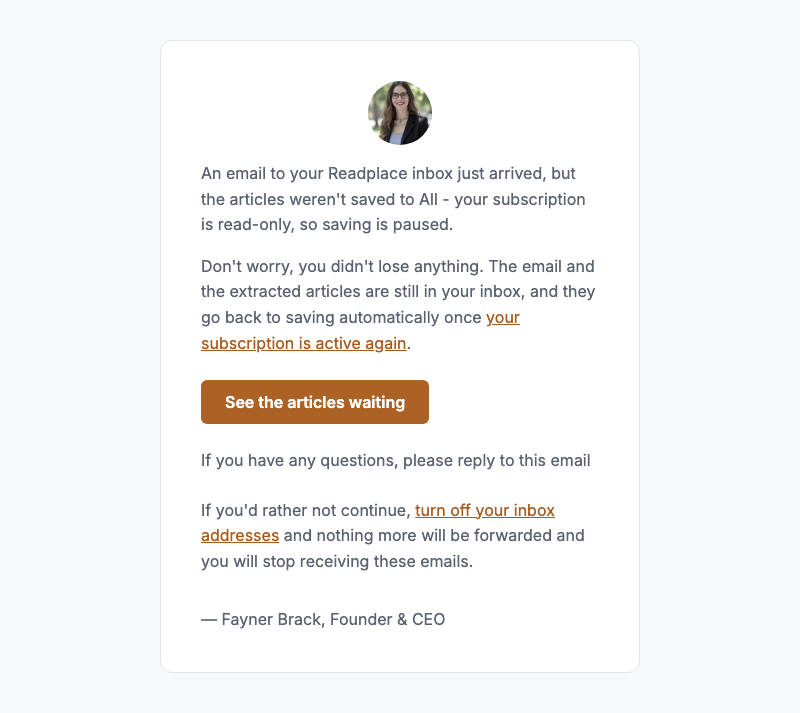
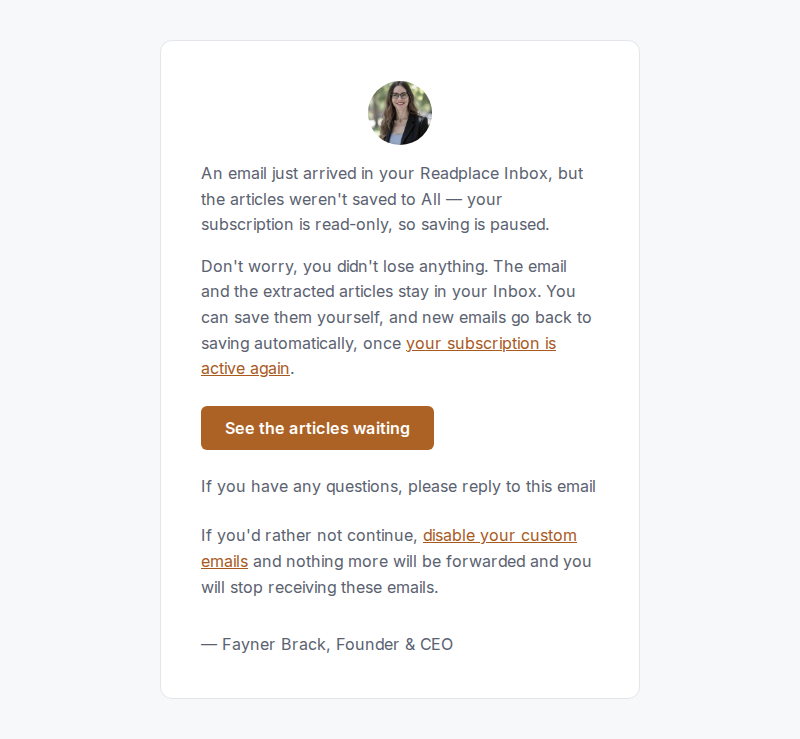
fix(hutch): name custom emails and Inbox in onboarding and the account emails
Three customer emails and the onboarding checklist tell a reader where
their newsletters go. Two of the emails and the checklist called the
receiving address an inbox or an inbox address, the name the app keeps
for the Inbox page, and two of the emails said things that are not
true.

The email sent when a read-only account receives mail promised that the
held articles "go back to saving automatically" once the subscription is
active again. Nothing resubmits them: they stay in the Inbox for the
reader to save by hand, and only new mail saves automatically. The email
now says that. Its opening no longer calls the receiving address "your
Readplace inbox", because the address can belong to a Gmail connection
instead of being one the reader created. It names the address and says
the email arrived in the Readplace Inbox.

The Gmail newsletter notice said Readplace "saves every eligible
article". That stopped being the default when a newly chosen newsletter
began saving the issue itself. The notice now says the reader chooses
the issue, the articles it links to, or both, and its footer says the
reader has not chosen readlists where it said the newsletter was not
mapped.

The first-arrival email and the onboarding email step name the custom
email and the Inbox page. The onboarding step also leads with
subscribing to a newsletter, the main use of the address, where it only
mentioned forwarding one. The sentence wraps onto one more line, so the
[…]

Changed region(s): [[0.25, 0.0926, 0.75, 0.6788], [0.25, 0.7097, 0.75, 0.8022], [0.25, 0.864, 0.5625, 0.8948]]

diff --git a/projects/hutch/src/runtime/web/auth/gmail-newsletter-notice-email.test.ts b/projects/hutch/src/runtime/web/auth/gmail-newsletter-notice-email.test.ts
@@ -26,20 +26,20 @@ describe("GmailNewsletterNoticeEmail", () => {
 		expect(email.subject).toBe("Choose readlists for Example Letter");
 		expect(email.to("text/plain")).toBe([
 			"Readplace recognizes Example Letter in your Gmail: letter@example.com. It is ready to connect to your readlists.",
-			`Choose readlists and Save to send its future emails to Readplace, which saves every eligible article to All and to any other readlists you choose. ${IMPORT_SENTENCE}`,
+			`Choose readlists and Save to send its future emails to Readplace. What you choose to save — the issue itself, the articles it links to, or both — goes to All and any readlists you pick. ${IMPORT_SENTENCE}`,
 			"Choose readlists: https://readplace.com/newsletters/gmail?sender=letter%40example.com",
 			REPLY,
 			SIGNOFF,
-			"You are receiving this email because you haven't mapped this newsletter to a readlist. This is a one-time notification for Example Letter.",
+			"You are receiving this email because you haven't chosen readlists for this newsletter. This is a one-time notification for Example Letter.",
 		].join("\n\n"));
-		expect(footerOf(email.to("text/html"))).toBe("You are receiving this email because you haven't mapped this newsletter to a readlist. This is a one-time notification for Example Letter.");
+		expect(footerOf(email.to("text/html"))).toBe("You are receiving this email because you haven't chosen readlists for this newsletter. This is a one-time notification for Example Letter.");
 	});
 
 	it("names an unnamed newsletter by its address", () => {
 		const email = notice([newsletter({ newsletterName: undefined })]);
 
 		expect(email.subject).toBe("Choose readlists for letter@example.com");
-		expect(footerOf(email.to("text/html"))).toBe("You are receiving this email because you haven't mapped this newsletter to a readlist. This is a one-time notification for letter@example.com.");
+		expect(footerOf(email.to("text/html"))).toBe("You are receiving this email because you haven't chosen readlists for this newsletter. This is a one-time notification for letter@example.com.");
 	});
 
 	it("lists several newsletters, each linked to its own readlist choice, points the button at the Gmail page, and says nothing about waiting newsletters when none wait", () => {
@@ -53,11 +53,11 @@ describe("GmailNewsletterNoticeEmail", () => {
 			"Readplace recognizes 2 newsletters in your Gmail that are ready to connect to your readlists:",
 			"Example Letter (letter@example.com): https://readplace.com/newsletters/gmail?sender=letter%40example.com",
 			"news@wildcard.example: https://readplace.com/newsletters/gmail?sender=news%40wildcard.example",
-			`Choose readlists for a newsletter and Save to send its future emails to Readplace, which saves every eligible article to All and to any other readlists you choose. ${IMPORT_SENTENCE}`,
+			`Choose readlists for a newsletter and Save to send its future emails to Readplace. What you choose to save — the issue itself, the articles it links to, or both — goes to All and any readlists you pick. ${IMPORT_SENTENCE}`,
 			`Choose readlists: ${GMAIL_URL}`,
 			REPLY,
 			SIGNOFF,
-			"You are receiving this email because you haven't mapped these newsletters to a readlist. This is a one-time notification for each of them.",
+			"You are receiving this email because you haven't chosen readlists for these newsletters. This is a one-time notification for each of them.",
 		].join("\n\n"));
 		const anchors = [...new JSDOM(email.to("text/html")).window.document.querySelectorAll("a")].map((anchor) => [anchor.textContent, anchor.getAttribute("href")]);
 		expect(anchors).toEqual([
@@ -66,7 +66,7 @@ describe("GmailNewsletterNoticeEmail", () => {
 			["news@wildcard.example", "https://readplace.com/newsletters/gmail?sender=news%40wildcard.example"],
 			["Choose readlists", GMAIL_URL],
 		]);
-		expect(new JSDOM(email.to("text/html")).window.document.querySelector("a")?.closest("table")?.nextElementSibling?.textContent).toBe(`Choose readlists for a newsletter and Save to send its future emails to Readplace, which saves every eligible article to All and to any other readlists you choose. ${IMPORT_SENTENCE}`);
+		expect(new JSDOM(email.to("text/html")).window.document.querySelector("a")?.closest("table")?.nextElementSibling?.textContent).toBe(`Choose readlists for a newsletter and Save to send its future emails to Readplace. What you choose to save — the issue itself, the articles it links to, or both — goes to All and any readlists you pick. ${IMPORT_SENTENCE}`);
 	});
 
 	it.each([
@@ -83,17 +83,17 @@ describe("GmailNewsletterNoticeEmail", () => {
 			"Example Letter (letter@example.com): https://readplace.com/newsletters/gmail?sender=letter%40example.com",
 			"news@wildcard.example: https://readplace.com/newsletters/gmail?sender=news%40wildcard.example",
 			sentence,
-			`Choose readlists for a newsletter and Save to send its future emails to Readplace, which saves every eligible article to All and to any other readlists you choose. ${IMPORT_SENTENCE}`,
+			`Choose readlists for a newsletter and Save to send its future emails to Readplace. What you choose to save — the issue itself, the articles it links to, or both — goes to All and any readlists you pick. ${IMPORT_SENTENCE}`,
 			`Choose readlists: ${GMAIL_URL}`,
 			REPLY,
 			SIGNOFF,
-			"You are receiving this email because you haven't mapped these newsletters to a readlist. This is a one-time notification for each of them.",
+			"You are receiving this email because you haven't chosen readlists for these newsletters. This is a one-time notification for each of them.",
 		].join("\n\n"));
 		const html = email.to("text/html");
 		const listTable = new JSDOM(html).window.document.querySelector("a")?.closest("table");
 		expect(listTable?.nextElementSibling?.tagName).toBe("P");
 		expect(listTable?.nextElementSibling?.textContent).toBe(sentence);
-		expect(footerOf(html)).toBe("You are receiving this email because you haven't mapped these newsletters to a readlist. This is a one-time notification for each of them.");
+		expect(footerOf(html)).toBe("You are receiving this email because you haven't chosen readlists for these newsletters. This is a one-time notification for each of them.");
 	});
 
 	it("refuses a single-newsletter notice that says more are waiting", () => {

diff --git a/projects/hutch/docs/customer-emails/html/automation-saves-held--default.html b/projects/hutch/docs/customer-emails/html/automation-saves-held--default.html
@@ -3,7 +3,7 @@
   <head>
     <meta charset="utf-8">
     <meta name="viewport" content="width=device-width, initial-scale=1.0">
-    <title>Links sent to your Readplace inbox are waiting</title>
+    <title>Links sent to your Readplace Inbox are waiting</title>
     <style>
       @media (min-width: 768px) {
         .email-card__body {
@@ -27,8 +27,8 @@
                   </tr>
                   <tr>
                     <td>
-                      <p style="margin:0 0 16px;font-size:16px;line-height:1.6;color:#5A6170;">An email to your Readplace inbox at <span style="display:inline-block;overflow-wrap:anywhere;word-break:break-word;font-weight:700;">inbox-k7m2q9@read.place</span> just arrived, but the articles weren&#x27;t saved to All - your subscription is read-only, so saving is paused.</p>
-                      <p style="margin:0 0 24px;font-size:16px;line-height:1.6;color:#5A6170;">Don't worry, you didn't lose anything. The email and the extracted articles are still in your inbox, and they go back to saving automatically once <a href="https://readplace.com/account?utm_source=automation-saves-held&utm_medium=email&utm_campaign=lapsed-inbox-save&utm_content=reactivate" style="color:#A85A1E;">your subscription is active again</a>.</p>
+                      <p style="margin:0 0 16px;font-size:16px;line-height:1.6;color:#5A6170;">An email to <span style="display:inline-block;overflow-wrap:anywhere;word-break:break-word;font-weight:700;">inbox-k7m2q9@read.place</span> just arrived in your Readplace Inbox, but the articles weren&#x27;t saved to All — your subscription is read-only, so saving is paused.</p>
+                      <p style="margin:0 0 24px;font-size:16px;line-height:1.6;color:#5A6170;">Don't worry, you didn't lose anything. The email and the extracted articles stay in your Inbox. You can save them yourself, and new emails go back to saving automatically, once <a href="https://readplace.com/account?utm_source=automation-saves-held&utm_medium=email&utm_campaign=lapsed-inbox-save&utm_content=reactivate" style="color:#A85A1E;">your subscription is active again</a>.</p>
                       <table role="presentation" cellpadding="0" cellspacing="0">
                         <tr>
                           <td style="border-radius:6px;background-color:#AD6225;">
@@ -37,7 +37,7 @@
                         </tr>
                       </table>
                       <p style="margin:24px 0 0;font-size:16px;line-height:1.6;color:#5A6170;">If you have any questions, please reply to this email</p>
-                      <p style="margin:24px 0 0;font-size:16px;line-height:1.6;color:#5A6170;">If you'd rather not continue, <a href="https://readplace.com/newsletters/custom-emails?utm_source&#x3D;automation-saves-held&amp;utm_medium&#x3D;email&amp;utm_campaign&#x3D;lapsed-inbox-save&amp;utm_content&#x3D;manage-addresses" style="color:#A85A1E;">turn off your inbox addresses</a> and nothing more will be forwarded and you will stop receiving these emails.</p>
+                      <p style="margin:24px 0 0;font-size:16px;line-height:1.6;color:#5A6170;">If you'd rather not continue, <a href="https://readplace.com/newsletters/custom-emails?utm_source&#x3D;automation-saves-held&amp;utm_medium&#x3D;email&amp;utm_campaign&#x3D;lapsed-inbox-save&amp;utm_content&#x3D;manage-addresses" style="color:#A85A1E;">disable your custom emails</a> and nothing more will be forwarded and you will stop receiving these emails.</p>
                       <p style="margin:32px 0 0;font-size:16px;line-height:1.6;color:#5A6170;">— Fayner Brack, Founder & CEO</p>
                     </td>
                   </tr>

diff --git a/projects/hutch/docs/customer-emails/html/automation-saves-held--no-inbox-address.html b/projects/hutch/docs/customer-emails/html/automation-saves-held--no-inbox-address.html
@@ -3,7 +3,7 @@
   <head>
     <meta charset="utf-8">
     <meta name="viewport" content="width=device-width, initial-scale=1.0">
-    <title>Links sent to your Readplace inbox are waiting</title>
+    <title>Links sent to your Readplace Inbox are waiting</title>
     <style>
       @media (min-width: 768px) {
         .email-card__body {
@@ -27,8 +27,8 @@
                   </tr>
                   <tr>
                     <td>
-                      <p style="margin:0 0 16px;font-size:16px;line-height:1.6;color:#5A6170;">An email to your Readplace inbox<span style="display:inline-block;overflow-wrap:anywhere;word-break:break-word;font-weight:700;"></span> just arrived, but the articles weren&#x27;t saved to All - your subscription is read-only, so saving is paused.</p>
-                      <p style="margin:0 0 24px;font-size:16px;line-height:1.6;color:#5A6170;">Don't worry, you didn't lose anything. The email and the extracted articles are still in your inbox, and they go back to saving automatically once <a href="https://readplace.com/account?utm_source=automation-saves-held&utm_medium=email&utm_campaign=lapsed-inbox-save&utm_content=reactivate" style="color:#A85A1E;">your subscription is active again</a>.</p>
+                      <p style="margin:0 0 16px;font-size:16px;line-height:1.6;color:#5A6170;">An email<span style="display:inline-block;overflow-wrap:anywhere;word-break:break-word;font-weight:700;"></span> just arrived in your Readplace Inbox, but the articles weren&#x27;t saved to All — your subscription is read-only, so saving is paused.</p>
+                      <p style="margin:0 0 24px;font-size:16px;line-height:1.6;color:#5A6170;">Don't worry, you didn't lose anything. The email and the extracted articles stay in your Inbox. You can save them yourself, and new emails go back to saving automatically, once <a href="https://readplace.com/account?utm_source=automation-saves-held&utm_medium=email&utm_campaign=lapsed-inbox-save&utm_content=reactivate" style="color:#A85A1E;">your subscription is active again</a>.</p>
                       <table role="presentation" cellpadding="0" cellspacing="0">
                         <tr>
                           <td style="border-radius:6px;background-color:#AD6225;">
@@ -37,7 +37,7 @@
                         </tr>
                       </table>
                       <p style="margin:24px 0 0;font-size:16px;line-height:1.6;color:#5A6170;">If you have any questions, please reply to this email</p>
-                      <p style="margin:24px 0 0;font-size:16px;line-height:1.6;color:#5A6170;">If you'd rather not continue, <a href="https://readplace.com/newsletters/custom-emails?utm_source&#x3D;automation-saves-held&amp;utm_medium&#x3D;email&amp;utm_campaign&#x3D;lapsed-inbox-save&amp;utm_content&#x3D;manage-addresses" style="color:#A85A1E;">turn off your inbox addresses</a> and nothing more will be forwarded and you will stop receiving these emails.</p>
+                      <p style="margin:24px 0 0;font-size:16px;line-height:1.6;color:#5A6170;">If you'd rather not continue, <a href="https://readplace.com/newsletters/custom-emails?utm_source&#x3D;automation-saves-held&amp;utm_medium&#x3D;email&amp;utm_campaign&#x3D;lapsed-inbox-save&amp;utm_content&#x3D;manage-addresses" style="color:#A85A1E;">disable your custom emails</a> and nothing more will be forwarded and you will stop receiving these emails.</p>
                       <p style="margin:32px 0 0;font-size:16px;line-height:1.6;color:#5A6170;">— Fayner Brack, Founder & CEO</p>
                     </td>
                   </tr>

diff --git a/projects/hutch/docs/customer-emails/html/inbox-first-arrival--custom-readlist-alias.html b/projects/hutch/docs/customer-emails/html/inbox-first-arrival--custom-readlist-alias.html
@@ -3,7 +3,7 @@
   <head>
     <meta charset="utf-8">
     <meta name="viewport" content="width=device-width, initial-scale=1.0">
-    <title>Your first email landed in your Readplace inbox</title>
+    <title>Your first email landed in your Readplace Inbox</title>
     <style>
       @media (min-width: 768px) {
         .email-card__body {
@@ -27,12 +27,12 @@
                   </tr>
                   <tr>
                     <td>
-                      <p style="margin:0 0 16px;font-size:16px;line-height:1.6;color:#5A6170;">The first email to your Readplace inbox at <span style="display:inline-block;overflow-wrap:anywhere;word-break:break-word;font-weight:700;">longreads-p4n8z2@read.place</span> just came through.</p>
-                      <p style="margin:0 0 24px;font-size:16px;line-height:1.6;color:#5A6170;">From here on, every email sent to that address shows up in your inbox, and Readplace pulls the article links out of it and adds them to All, your main readlist, so you can read them later.</p>
+                      <p style="margin:0 0 16px;font-size:16px;line-height:1.6;color:#5A6170;">The first email to your custom email <span style="display:inline-block;overflow-wrap:anywhere;word-break:break-word;font-weight:700;">longreads-p4n8z2@read.place</span> just came through.</p>
+                      <p style="margin:0 0 24px;font-size:16px;line-height:1.6;color:#5A6170;">From here on, every email sent to that custom email shows up in your Inbox, and Readplace pulls the article links out of it and adds them to All, your main readlist, so you can read them later.</p>
                       <table role="presentation" cellpadding="0" cellspacing="0">
                         <tr>
                           <td style="border-radius:6px;background-color:#AD6225;">
-                            <a href="https://readplace.com/inbox?highlight&#x3D;2026-10-05T07%3A42%3A19.204Z%23%3C20261005074211.3.8f2c4a91d7e6b035%40mg-d1.substack.com%3E&amp;utm_source&#x3D;first-inbox-email&amp;utm_medium&#x3D;email&amp;utm_campaign&#x3D;inbox-first-arrival&amp;utm_content&#x3D;open-inbox" style="display:inline-block;padding:12px 24px;font-size:16px;font-weight:600;line-height:20px;color:#FFFFFF;text-decoration:none;border-radius:6px;">See it in your inbox</a>
+                            <a href="https://readplace.com/inbox?highlight&#x3D;2026-10-05T07%3A42%3A19.204Z%23%3C20261005074211.3.8f2c4a91d7e6b035%40mg-d1.substack.com%3E&amp;utm_source&#x3D;first-inbox-email&amp;utm_medium&#x3D;email&amp;utm_campaign&#x3D;inbox-first-arrival&amp;utm_content&#x3D;open-inbox" style="display:inline-block;padding:12px 24px;font-size:16px;font-weight:600;line-height:20px;color:#FFFFFF;text-decoration:none;border-radius:6px;">See it in your Inbox</a>
                           </td>
                         </tr>
                       </table>

diff --git a/projects/hutch/docs/customer-emails/html/inbox-first-arrival--default.html b/projects/hutch/docs/customer-emails/html/inbox-first-arrival--default.html
@@ -3,7 +3,7 @@
   <head>
     <meta charset="utf-8">
     <meta name="viewport" content="width=device-width, initial-scale=1.0">
-    <title>Your first email landed in your Readplace inbox</title>
+    <title>Your first email landed in your Readplace Inbox</title>
     <style>
       @media (min-width: 768px) {
         .email-card__body {
@@ -27,12 +27,12 @@
                   </tr>
                   <tr>
                     <td>
-                      <p style="margin:0 0 16px;font-size:16px;line-height:1.6;color:#5A6170;">The first email to your Readplace inbox at <span style="display:inline-block;overflow-wrap:anywhere;word-break:break-word;font-weight:700;">inbox-k7m2q9@read.place</span> just came through.</p>
-                      <p style="margin:0 0 24px;font-size:16px;line-height:1.6;color:#5A6170;">From here on, every email sent to that address shows up in your inbox, and Readplace pulls the article links out of it and adds them to All, your main readlist, so you can read them later.</p>
+                      <p style="margin:0 0 16px;font-size:16px;line-height:1.6;color:#5A6170;">The first email to your custom email <span style="display:inline-block;overflow-wrap:anywhere;word-break:break-word;font-weight:700;">inbox-k7m2q9@read.place</span> just came through.</p>
+                      <p style="margin:0 0 24px;font-size:16px;line-height:1.6;color:#5A6170;">From here on, every email sent to that custom email shows up in your Inbox, and Readplace pulls the article links out of it and adds them to All, your main readlist, so you can read them later.</p>
                       <table role="presentation" cellpadding="0" cellspacing="0">
                         <tr>
                           <td style="border-radius:6px;background-color:#AD6225;">
-                            <a href="https://readplace.com/inbox?highlight&#x3D;2026-10-05T07%3A42%3A18.613Z%23%3C20261005074211.3.8f2c4a91d7e6b035%40mg-d1.substack.com%3E&amp;utm_source&#x3D;first-inbox-email&amp;utm_medium&#x3D;email&amp;utm_campaign&#x3D;inbox-first-arrival&amp;utm_content&#x3D;open-inbox" style="display:inline-block;padding:12px 24px;font-size:16px;font-weight:600;line-height:20px;color:#FFFFFF;text-decoration:none;border-radius:6px;">See it in your inbox</a>
+                            <a href="https://readplace.com/inbox?highlight&#x3D;2026-10-05T07%3A42%3A18.613Z%23%3C20261005074211.3.8f2c4a91d7e6b035%40mg-d1.substack.com%3E&amp;utm_source&#x3D;first-inbox-email&amp;utm_medium&#x3D;email&amp;utm_campaign&#x3D;inbox-first-arrival&amp;utm_content&#x3D;open-inbox" style="display:inline-block;padding:12px 24px;font-size:16px;font-weight:600;line-height:20px;color:#FFFFFF;text-decoration:none;border-radius:6px;">See it in your Inbox</a>
                           </td>
                         </tr>
                       </table>

diff --git a/projects/hutch/src/runtime/web/auth/automation-saves-held-email.test.ts b/projects/hutch/src/runtime/web/auth/automation-saves-held-email.test.ts
@@ -1,0 +1,53 @@
+import { JSDOM } from "jsdom";
+import { AutomationSavesHeldEmail } from "./automation-saves-held-email";
+
+const INBOX_URL = "https://readplace.com/inbox?highlight=held-email";
+const REACTIVATE_URL = "https://readplace.com/account?utm_content=reactivate";
+const MANAGE_URL = "https://readplace.com/newsletters/custom-emails?utm_content=manage-addresses";
+
+const AFTER_THE_OPENING = [
+	`Don't worry, you didn't lose anything. The email and the extracted articles stay in your Inbox. You can save them yourself, and new emails go back to saving automatically, once your subscription is active again: ${REACTIVATE_URL}`,
+	`See the articles waiting: ${INBOX_URL}`,
+	"If you have any questions, please reply to this email",
+	`If you'd rather not continue, disable your custom emails and nothing more will be forwarded and you will stop receiving these emails: ${MANAGE_URL}`,
+	"— Fayner Brack, Founder & CEO",
+];
+
+const heldNotice = (inboxAddress: string | undefined) =>
+	AutomationSavesHeldEmail({
+		founderAvatarUrl: "https://static.readplace.com/fayner-brack.jpg",
+		inboxAddress,
+		inboxUrl: INBOX_URL,
+		reactivateUrl: REACTIVATE_URL,
+		manageAddressesUrl: MANAGE_URL,
+	});
+
+describe("AutomationSavesHeldEmail", () => {
+	it("names the address the held email was sent to and says what an active subscription brings back", () => {
+		expect(heldNotice("news-3f9a2c@read.place").to("text/plain")).toBe([
+			"An email to news-3f9a2c@read.place just arrived in your Readplace Inbox, but the articles weren't saved to All — your subscription is read-only, so saving is paused.",
+			...AFTER_THE_OPENING,
+		].join("\n\n"));
+	});
+
+	it("opens without an address when the notice carries none", () => {
+		expect(heldNotice(undefined).to("text/plain")).toBe([
+			"An email just arrived in your Readplace Inbox, but the articles weren't saved to All — your subscription is read-only, so saving is paused.",
+			...AFTER_THE_OPENING,
+		].join("\n\n"));
+	});
+
+	it("links the subscription, the held email and the custom emails page from the HTML body", () => {
+		const { document } = new JSDOM(heldNotice("news-3f9a2c@read.place").to("text/html")).window;
+
+		expect(document.title).toBe("Links sent to your Readplace Inbox are waiting");
+		expect(document.querySelector("p")?.textContent).toBe(
+			"An email to news-3f9a2c@read.place just arrived in your Readplace Inbox, but the articles weren't saved to All — your subscription is read-only, so saving is paused.",
+		);
+		expect([...document.querySelectorAll("a")].map((anchor) => [anchor.textContent, anchor.getAttribute("href")])).toEqual([
+			["your subscription is active again", REACTIVATE_URL],
+			["See the articles waiting", INBOX_URL],
+			["disable your custom emails", MANAGE_URL],
+		]);
+	});
+});

diff --git a/projects/hutch/src/runtime/send-first-inbox-email-notice/send-first-inbox-email-notice-handler.test.ts b/projects/hutch/src/runtime/send-first-inbox-email-notice/send-first-inbox-email-notice-handler.test.ts
@@ -23,9 +23,9 @@ const EXPECTED_INBOX_URL =
 	"https://readplace.com/inbox?highlight=2026-06-04T08%3A00%3A00.000Z%23%3Cnews%40example.com%3E&utm_source=first-inbox-email&utm_medium=email&utm_campaign=inbox-first-arrival&utm_content=open-inbox";
 
 const EXPECTED_TEXT = [
-	"The first email to your Readplace inbox at in-3f9a2c@read.place just came through.",
-	"From here on, every email sent to that address shows up in your inbox, and Readplace pulls the article links out of it and adds them to All, your main readlist, so you can read them later.",
-	`See it in your inbox: ${EXPECTED_INBOX_URL}`,
+	"The first email to your custom email in-3f9a2c@read.place just came through.",
+	"From here on, every email sent to that custom email shows up in your Inbox, and Readplace pulls the article links out of it and adds them to All, your main readlist, so you can read them later.",
+	`See it in your Inbox: ${EXPECTED_INBOX_URL}`,
 	"If you have any questions, please reply to this email",
 	"— Fayner Brack, Founder & CEO",
 ].join("\n\n");
@@ -115,7 +115,7 @@ describe("send-first-inbox-email-notice handler", () => {
 		assert.equal(sent.to, "user@example.com");
 		assert.equal(sent.replyTo, "fayner@readplace.com");
 		assert.equal(sent.bcc, "readplace+first_inbox_email@readplace.com");
-		assert.equal(sent.subject, "Your first email landed in your Readplace inbox");
+		assert.equal(sent.subject, "Your first email landed in your Readplace Inbox");
 		assert.equal(sent.text, EXPECTED_TEXT);
 		assert.ok(
 			sent.html.includes(
@@ -123,10 +123,10 @@ describe("send-first-inbox-email-notice handler", () => {
 			),
 			"the hyphenated address must be bold and byte-exact in the HTML",
 		);
-		assert.ok(sent.html.includes("Your first email landed in your Readplace inbox"));
+		assert.ok(sent.html.includes("Your first email landed in your Readplace Inbox"));
 		assert.ok(sent.html.includes(`src="${FOUNDER_AVATAR_URL}"`));
 		assert.ok(sent.html.includes('alt="Fayner Brack"'));
-		assert.ok(sent.html.includes(">See it in your inbox</a>"));
+		assert.ok(sent.html.includes(">See it in your Inbox</a>"));
 		assert.ok(
 			sent.html.includes("If you have any questions, please reply to this email"),
 			"the reply invitation must render — it is only honest because replyTo is asserted above",

diff --git a/projects/hutch/src/runtime/web/auth/gmail-newsletter-notice-email.ts b/projects/hutch/src/runtime/web/auth/gmail-newsletter-notice-email.ts
@@ -28,8 +28,8 @@ function singleCopy(newsletter: GmailNewsletterNoticeItem) {
 			address: newsletter.senderEmail,
 			after: ". It is ready to connect to your readlists.",
 		},
-		paragraph: `Choose readlists and Save to send its future emails to Readplace, which saves every eligible article to All and to any other readlists you choose. You can also choose to import earlier unread messages from the last ${GMAIL_HISTORY_IMPORT_WINDOW_DAYS} days.`,
-		footer: `You are receiving this email because you haven't mapped this newsletter to a readlist. This is a one-time notification for ${label}.`,
+		paragraph: `Choose readlists and Save to send its future emails to Readplace. What you choose to save — the issue itself, the articles it links to, or both — goes to All and any readlists you pick. You can also choose to import earlier unread messages from the last ${GMAIL_HISTORY_IMPORT_WINDOW_DAYS} days.`,
+		footer: `You are receiving this email because you haven't chosen readlists for this newsletter. This is a one-time notification for ${label}.`,
 	};
 }
 
@@ -37,8 +37,8 @@ function groupCopy(count: number) {
 	return {
 		subject: `Choose readlists for ${count} newsletters`,
 		introLine: `Readplace recognizes ${count} newsletters in your Gmail that are ready to connect to your readlists:`,
-		paragraph: `Choose readlists for a newsletter and Save to send its future emails to Readplace, which saves every eligible article to All and to any other readlists you choose. You can also choose to import earlier unread messages from the last ${GMAIL_HISTORY_IMPORT_WINDOW_DAYS} days.`,
-		footer: "You are receiving this email because you haven't mapped these newsletters to a readlist. This is a one-time notification for each of them.",
+		paragraph: `Choose readlists for a newsletter and Save to send its future emails to Readplace. What you choose to save — the issue itself, the articles it links to, or both — goes to All and any readlists you pick. You can also choose to import earlier unread messages from the last ${GMAIL_HISTORY_IMPORT_WINDOW_DAYS} days.`,
+		footer: "You are receiving this email because you haven't chosen readlists for these newsletters. This is a one-time notification for each of them.",
 	};
 }
 

diff --git a/projects/hutch/docs/customer-emails/html/gmail-newsletter-notice--unnamed-sender.html b/projects/hutch/docs/customer-emails/html/gmail-newsletter-notice--unnamed-sender.html
@@ -28,7 +28,7 @@
                   <tr>
                     <td>
                       <p style="margin:0 0 16px;font-size:16px;line-height:1.6;color:#5A6170;">Readplace recognizes this newsletter in your Gmail: <span style="display:inline-block;overflow-wrap:anywhere;word-break:break-word;font-weight:700;">lenny@substack.com</span>. It is ready to connect to your readlists.</p>
-                      <p style="margin:0 0 24px;font-size:16px;line-height:1.6;color:#5A6170;">Choose readlists and Save to send its future emails to Readplace, which saves every eligible article to All and to any other readlists you choose. You can also choose to import earlier unread messages from the last 30 days.</p>
+                      <p style="margin:0 0 24px;font-size:16px;line-height:1.6;color:#5A6170;">Choose readlists and Save to send its future emails to Readplace. What you choose to save — the issue itself, the articles it links to, or both — goes to All and any readlists you pick. You can also choose to import earlier unread messages from the last 30 days.</p>
                       <table role="presentation" cellpadding="0" cellspacing="0">
                         <tr>
                           <td style="border-radius:6px;background-color:#AD6225;">
@@ -38,7 +38,7 @@
                       </table>
                       <p style="margin:24px 0 0;font-size:16px;line-height:1.6;color:#5A6170;">If you have any questions, please reply to this email</p>
                       <p style="margin:32px 0 0;font-size:16px;line-height:1.6;color:#5A6170;">— Fayner Brack, Founder & CEO</p>
-                      <p style="margin:24px 0 0;font-size:14px;line-height:1.6;color:#5A6170;">You are receiving this email because you haven&#x27;t mapped this newsletter to a readlist. This is a one-time notification for lenny@substack.com.</p>
+                      <p style="margin:24px 0 0;font-size:14px;line-height:1.6;color:#5A6170;">You are receiving this email because you haven&#x27;t chosen readlists for this newsletter. This is a one-time notification for lenny@substack.com.</p>
                     </td>
                   </tr>
                 </table>

diff --git a/projects/hutch/docs/customer-emails/html/gmail-newsletter-notice--named-newsletter.html b/projects/hutch/docs/customer-emails/html/gmail-newsletter-notice--named-newsletter.html
@@ -28,7 +28,7 @@
                   <tr>
                     <td>
                       <p style="margin:0 0 16px;font-size:16px;line-height:1.6;color:#5A6170;">Readplace recognizes JavaScript Weekly in your Gmail: <span style="display:inline-block;overflow-wrap:anywhere;word-break:break-word;font-weight:700;">jsw@peterc.org</span>. It is ready to connect to your readlists.</p>
-                      <p style="margin:0 0 24px;font-size:16px;line-height:1.6;color:#5A6170;">Choose readlists and Save to send its future emails to Readplace, which saves every eligible article to All and to any other readlists you choose. You can also choose to import earlier unread messages from the last 30 days.</p>
+                      <p style="margin:0 0 24px;font-size:16px;line-height:1.6;color:#5A6170;">Choose readlists and Save to send its future emails to Readplace. What you choose to save — the issue itself, the articles it links to, or both — goes to All and any readlists you pick. You can also choose to import earlier unread messages from the last 30 days.</p>
                       <table role="presentation" cellpadding="0" cellspacing="0">
                         <tr>
                           <td style="border-radius:6px;background-color:#AD6225;">
@@ -38,7 +38,7 @@
                       </table>
                       <p style="margin:24px 0 0;font-size:16px;line-height:1.6;color:#5A6170;">If you have any questions, please reply to this email</p>
                       <p style="margin:32px 0 0;font-size:16px;line-height:1.6;color:#5A6170;">— Fayner Brack, Founder & CEO</p>
-                      <p style="margin:24px 0 0;font-size:14px;line-height:1.6;color:#5A6170;">You are receiving this email because you haven&#x27;t mapped this newsletter to a readlist. This is a one-time notification for JavaScript Weekly.</p>
+                      <p style="margin:24px 0 0;font-size:14px;line-height:1.6;color:#5A6170;">You are receiving this email because you haven&#x27;t chosen readlists for this newsletter. This is a one-time notification for JavaScript Weekly.</p>
                     </td>
                   </tr>
                 </table>

diff --git a/projects/hutch/src/runtime/web/auth/automation-saves-held-email.ts b/projects/hutch/src/runtime/web/auth/automation-saves-held-email.ts
@@ -10,7 +10,7 @@ const TEMPLATE = readFileSync(
 );
 
 export const AUTOMATION_SAVES_HELD_EMAIL_SUBJECT =
-	"links sent to your Readplace inbox are waiting";
+	"links sent to your Readplace Inbox are waiting";
 
 const SIGNOFF = "— Fayner Brack, Founder & CEO";
 
@@ -29,7 +29,7 @@ interface AutomationSavesHeldEmailComponent {
 const CTA_LABEL = "See the articles waiting";
 
 const OPENING_AFTER =
-	" just arrived, but the articles weren't saved to All - your subscription is read-only, so saving is paused.";
+	" just arrived in your Readplace Inbox, but the articles weren't saved to All — your subscription is read-only, so saving is paused.";
 
 function openingFragments(inboxAddress: string | undefined): {
 	before: string;
@@ -39,15 +39,15 @@ function openingFragments(inboxAddress: string | undefined): {
 	return {
 		before:
 			inboxAddress === undefined
-				? "An email to your Readplace inbox"
-				: "An email to your Readplace inbox at ",
+				? "An email"
+				: "An email to ",
 		address: inboxAddress ?? "",
 		after: OPENING_AFTER,
 	};
 }
 
 const REASSURANCE_PREFIX =
-	"Don't worry, you didn't lose anything. The email and the extracted articles are still in your inbox, and they go back to saving automatically once ";
+	"Don't worry, you didn't lose anything. The email and the extracted articles stay in your Inbox. You can save them yourself, and new emails go back to saving automatically, once ";
 
 const REASSURANCE_LINK_TEXT = "your subscription is active again";
 
@@ -90,7 +90,7 @@ export function AutomationSavesHeldEmail(
 				...paragraphs.map((paragraph) => paragraph.text),
 				`${CTA_LABEL}: ${params.inboxUrl}`,
 				EMAIL_REPLY_INVITATION,
-				`If you'd rather not continue, turn off your inbox addresses and nothing more will be forwarded and you will stop receiving these emails: ${params.manageAddressesUrl}`,
+				`If you'd rather not continue, disable your custom emails and nothing more will be forwarded and you will stop receiving these emails: ${params.manageAddressesUrl}`,
 				SIGNOFF,
 			].join("\n\n");
 		},

diff --git a/projects/hutch/docs/customer-emails/html/gmail-newsletter-notice--grouped.html b/projects/hutch/docs/customer-emails/html/gmail-newsletter-notice--grouped.html
@@ -47,7 +47,7 @@
                           </td>
                         </tr>
                       </table>
-                      <p style="margin:0 0 24px;font-size:16px;line-height:1.6;color:#5A6170;">Choose readlists for a newsletter and Save to send its future emails to Readplace, which saves every eligible article to All and to any other readlists you choose. You can also choose to import earlier unread messages from the last 30 days.</p>
+                      <p style="margin:0 0 24px;font-size:16px;line-height:1.6;color:#5A6170;">Choose readlists for a newsletter and Save to send its future emails to Readplace. What you choose to save — the issue itself, the articles it links to, or both — goes to All and any readlists you pick. You can also choose to import earlier unread messages from the last 30 days.</p>
                       <table role="presentation" cellpadding="0" cellspacing="0">
                         <tr>
                           <td style="border-radius:6px;background-color:#AD6225;">
@@ -57,7 +57,7 @@
                       </table>
                       <p style="margin:24px 0 0;font-size:16px;line-height:1.6;color:#5A6170;">If you have any questions, please reply to this email</p>
                       <p style="margin:32px 0 0;font-size:16px;line-height:1.6;color:#5A6170;">— Fayner Brack, Founder & CEO</p>
-                      <p style="margin:24px 0 0;font-size:14px;line-height:1.6;color:#5A6170;">You are receiving this email because you haven&#x27;t mapped these newsletters to a readlist. This is a one-time notification for each of them.</p>
+                      <p style="margin:24px 0 0;font-size:14px;line-height:1.6;color:#5A6170;">You are receiving this email because you haven&#x27;t chosen readlists for these newsletters. This is a one-time notification for each of them.</p>
                     </td>
                   </tr>
                 </table>
